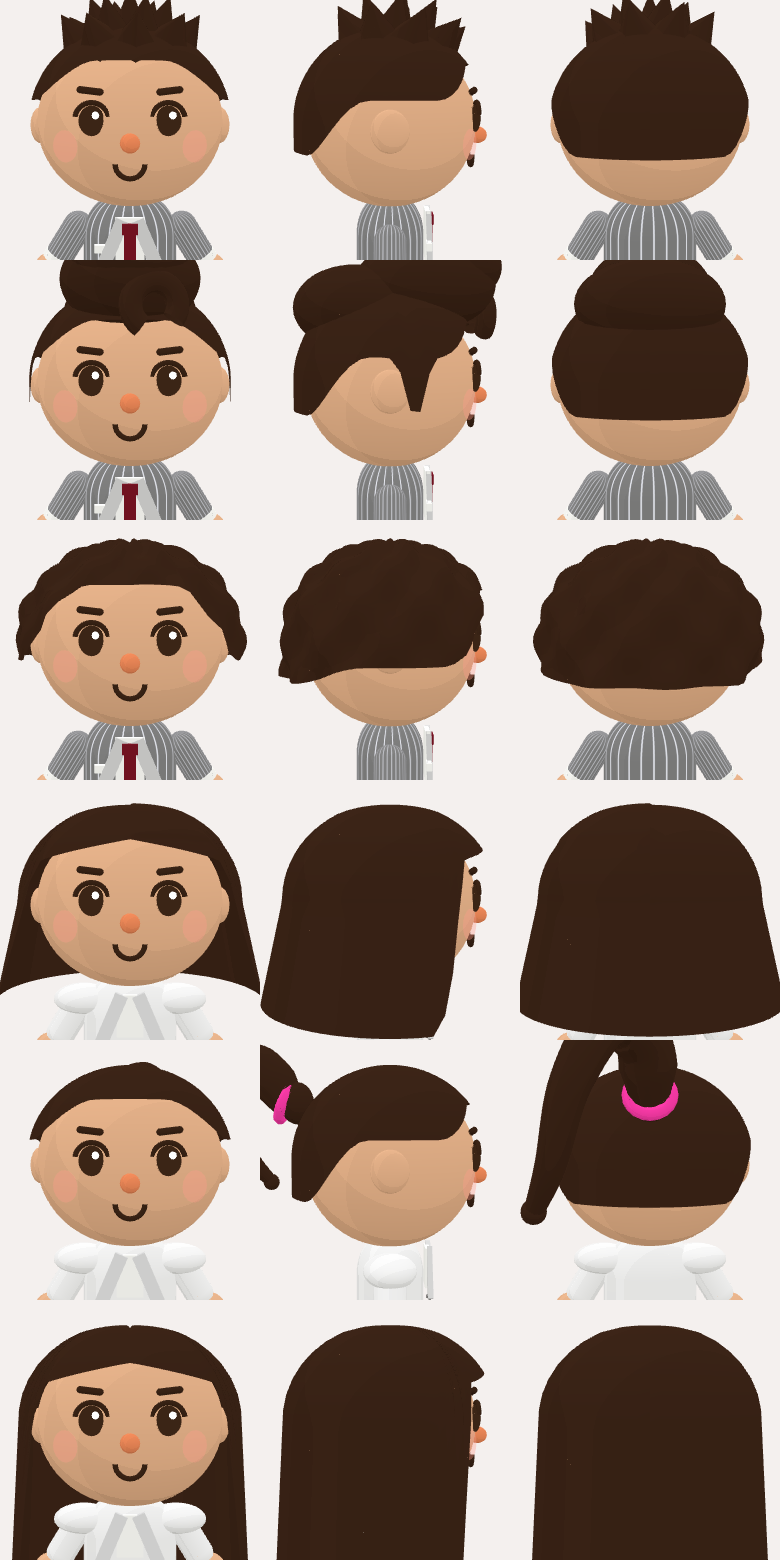
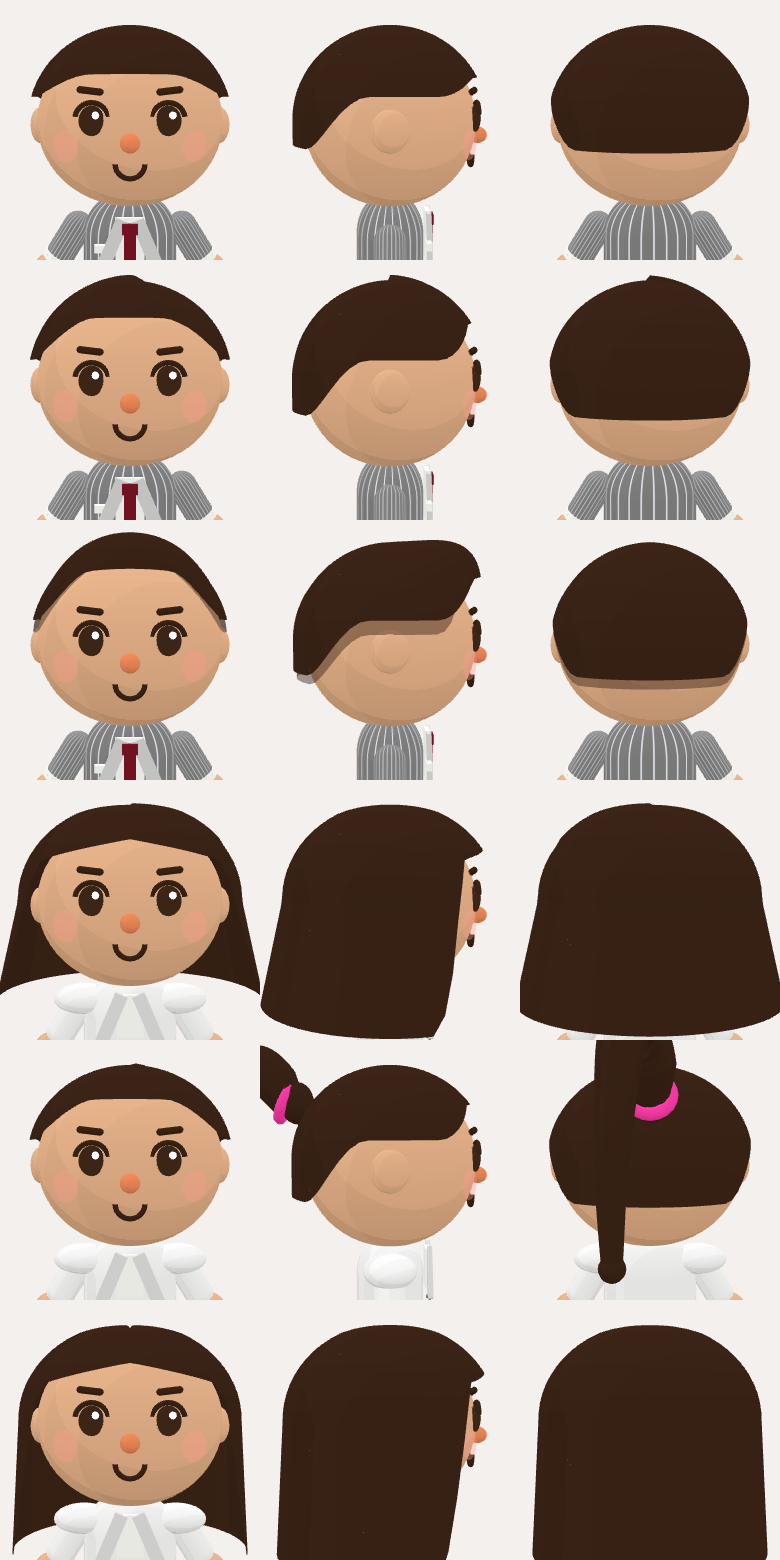
남자 헤어 3종 교체(크롭/가르마/쉐이브), 포니테일 아래로, 긴머리 길이 조정, <기본> 흰티·청바지 의상, 에어로빅 팬티=상의색, 여자 디스코 하의색, 여자 한복 소매=저고리색, 웨이터 이름 변경

diff --git a/public/world.js b/public/world.js
@@ -204,7 +204,7 @@ const SEQUIN_BLUE=patTex((x,s)=>{const cs=['#9fc4ff','#ffffff','#6f8fd8','#c9dcf
 const SAEKDONG=patTex((x,s)=>{const cs=['#e8443a','#f7a531','#f5e04a','#5cc45a','#3b8fe0','#8a4fd0','#f07ab8','#ffffff'];const h=s/cs.length;cs.forEach((c,i)=>{x.fillStyle=c;x.fillRect(0,i*h,s,h);});},1,1);
 const SKIN_DEF='#f2c29a';
 // 의상별 기본 색 (레퍼런스 그림 기준)
-window.OUTFIT_DEFAULTS={m:{suit:'#2b3352',disco:'#2fb8b0',hanbok:'#2f8f45',aerobic:'#ff2fa6'},f:{suit:'#9a9cc0',disco:'#2a3f9e',hanbok:'#e2525c',aerobic:'#ff2fa6'}};
+window.OUTFIT_DEFAULTS={m:{basic:'#f5f5f5',suit:'#2b3352',disco:'#2fb8b0',hanbok:'#2f8f45',aerobic:'#ff2fa6'},f:{basic:'#f5f5f5',suit:'#9a9cc0',disco:'#2a3f9e',hanbok:'#e2525c',aerobic:'#ff2fa6'}};
 const RAINBOW=patTex((x,s)=>{const cs=['#ff3fa4','#ffe23a','#7ee83a','#2fa8ff','#ff8a1e'];const w=s/10;for(let i=0;i<10;i++){x.fillStyle=cs[i%5];x.fillRect(i*w,0,w,s);}},3,1);
 function aeroAccent(col){const c=new THREE.Color(col),h={};c.getHSL(h);return '#'+new THREE.Color().setHSL((h.h+.33)%1,.9,.58).getHexString();}
 function chibiMats(o){const T=(c,ex={})=>new THREE.MeshToonMaterial({color:c,gradientMap:TOON_GRAD,...ex});
@@ -216,7 +216,7 @@ function chibiMats(o){const T=(c,ex={})=>new THREE.MeshToonMaterial({color:c,gra
   hair:T(o.dj?'#2a1a10':'#3b2417')};}
 const G={sph:(r,ws=28,hs=20)=>new THREE.SphereGeometry(r,ws,hs),cap:(r,l)=>new THREE.CapsuleGeometry(r,l,8,18),cyl:(a,b,h,s=28)=>new THREE.CylinderGeometry(a,b,h,s,1),box:(x,y,z)=>new THREE.BoxGeometry(x,y,z)};
 function mesh(g,m,p=[0,0,0],s=null,r=null){const o=new THREE.Mesh(g,m);o.position.set(...p);if(s)o.scale.set(...s);if(r)o.rotation.set(...r);return o;}
-function makeChibi(opts){const M=chibiMats(opts),f=opts.gender==='f',st=['suit','disco','hanbok','aerobic'].includes(opts.style)?opts.style:'suit';
+function makeChibi(opts){const M=chibiMats(opts),f=opts.gender==='f',st=['basic','suit','disco','hanbok','aerobic'].includes(opts.style)?opts.style:'suit';
  const LK=(window.LOOKS?LOOKS.resolve(opts):{top:opts.outfit,bottom:opts.outfit,acc:'none',hair:''});const npc=opts.dj||opts.waiter||!opts.top; // NPC 는 예전 한 가지 색 그대로
  const col=npc?(opts.outfit||OUTFIT_DEFAULTS[f?'f':'m'][st]):LK.top,bcol=npc?col:LK.bottom;opts={...opts,top:col,bottom:bcol,acc:npc?'none':LK.acc,hair:npc?'':LK.hair};
  const root=new THREE.Group(),hips=new THREE.Group();hips.position.y=.42;root.add(hips);
@@ -228,9 +228,9 @@ function makeChibi(opts){const M=chibiMats(opts),f=opts.gender==='f',st=['suit',
  if(!f&&st==='hanbok'){top=M.T(col);sleeve=top;pants=M.T(bcol);shoe=M.black;}
  if(f&&st==='suit'){top=M.T(col);sleeve=top;pants=M.skin;shoe=M.T('#1f2a4d');}
  if(f&&st==='disco'){top=M.T(col);sleeve=top;pants=M.T(bcol);shoe=M.silver;cuff=M.T('#8a5bd6');}
- if(f&&st==='hanbok'){top=M.T(npc?'#b9e08a':col);sleeve=M.T('#fff',{map:SAEKDONG});pants=M.skin;shoe=M.T('#fff');}
+ if(f&&st==='hanbok'){top=M.T(npc?'#b9e08a':col);sleeve=npc?M.T('#fff',{map:SAEKDONG}):top;cuff=npc?null:M.T('#fff',{map:SAEKDONG});pants=M.skin;shoe=M.T('#fff');} /* 소매 = 저고리 색, 끝동에 색동 */
  if(st==='aerobic'){top=M.T(col,{map:RAINBOW});sleeve=M.skin;pants=new THREE.MeshStandardMaterial({color:bcol,metalness:.2,roughness:.28,emissive:new THREE.Color(bcol).multiplyScalar(.25)});shoe=f?M.T('#fbfbf7'):M.skin;cuff=M.T(aeroAccent(bcol));}
- if(opts.tee){top=M.T('#f5f5f5');sleeve=M.skin;pants=M.T('#2f5fa8');shoe=M.T('#fbfbf7');cuff=null;} /* 알바: 흰 티 + 청바지 */
+ if(st==='basic')opts.tee=true;if(opts.tee){top=M.T(col);sleeve=M.skin;pants=M.T(bcol);shoe=M.T('#fbfbf7');cuff=null;} /* 알바: 흰 티 + 청바지 */
  // 몸통 (짧고 둥근 원통)
  torso.add(mesh(G.cap(.17,.22),top,[0,.27,0],[1.12,1,.8]));
  torso.add(mesh(G.cyl(.07,.08,.08),M.skin,[0,.53,0]));
@@ -257,7 +257,7 @@ function makeChibi(opts){const M=chibiMats(opts),f=opts.gender==='f',st=['suit',
   arm.add(mesh(G.sph(.07),M.skin,[0,-.24,0]));return a;});
  // 다리
  const legs=[-1,1].map(s=>{const l=new THREE.Group();l.position.set(s*.085,0,0);hips.add(l);
-  if(!f&&st==='disco'||f&&st==='disco'){l.add(mesh(G.cyl(.07,.115,.34),f?M.shinyOf(SEQUIN_BLUE,'#c9d6ff'):pants,[0,-.17,0]));if(f)l.add(mesh(G.cyl(.07,.08,.14),pants,[0,-.06,0]));}
+  if(!f&&st==='disco'||f&&st==='disco'){l.add(mesh(G.cyl(.07,.115,.34),f?M.shinyOf(SPARKLE,bcol):pants,[0,-.17,0]));if(f)l.add(mesh(G.cyl(.07,.08,.14),pants,[0,-.06,0]));}
   else if(!f&&st==='hanbok'){l.add(mesh(G.sph(.12),pants,[0,-.15,0],[1,1.45,1]));l.add(mesh(G.cyl(.055,.055,.08),M.white,[0,-.33,0]));}
   else l.add(mesh(G.cap(.065,.18),pants,[0,-.17,0]));
   if(st==='aerobic'&&cuff)l.add(mesh(G.cyl(.075,.075,.09),cuff,[0,-.2,0]));
@@ -316,32 +316,26 @@ const sstep=(a,b,x)=>{const t=Math.min(1,Math.max(0,(x-a)/(b-a)));return t*t*(3-
 const line3=(fr,sd,bk)=>f=>{const P=Math.PI;return f<P*.45?fr+(sd-fr)*sstep(P*.12,P*.36,f):sd+(bk-sd)*sstep(P*.56,P*.78,f);}; /* 옆은 귀 위로 수평, 뒤는 목덜미까지 */
 const partGroove=(ph,th)=>{const a=Math.atan2(Math.sin(ph),Math.cos(ph));return th<Math.PI*.4?-.035*Math.exp(-((a/.07)**2))*(1-th/(Math.PI*.4)):0;}; // 가운데 가르마
 function hairPick(head,M,H0,k){const H=H0.clone();H.side=THREE.DoubleSide;H.roughness=.55;H.metalness=.05;const P=Math.PI;const add=(g,p,sc,r)=>head.add(mesh(g,H,p||[0,0,0],sc,r));
- if(k==='m1'){ // 스포츠: 짧게 붙은 옆뒤 + 위로 뾰족한 결
-  add(hairShell(line3(P*.3,P*.43,P*.6),{bump:(ph,th)=>.03*Math.max(0,1-th/1.1)}));
-  const sp=[];for(let r=0;r<3;r++){const n=[1,6,9][r],rad=[0,.11,.2][r];for(let i=0;i<n;i++){const a=i/n*P*2+r*.4;sp.push([Math.sin(a)*rad,Math.cos(a)*rad*.95+.03,r]);}}
-  sp.forEach(([x,z,r])=>{const tilt=[0,.35,.6][r],a=Math.atan2(x,z);const y=HC.cy+HC.ry*Math.cos(Math.asin(Math.min(.95,Math.hypot(x/HC.rx,z/HC.rz))))-.02;
-   add(new THREE.ConeGeometry(.085,.2-.03*r,5),[x,y+.06,z],null,[Math.cos(a)*tilt+(z>0?.25:0),0,-Math.sin(a)*tilt]);});return;}
- if(k==='m2'){ // 엘비스: 볼륨 퀴프 + 구레나룻이 옆머리와 한 덩어리
-  const sb=f=>P*.18*Math.exp(-(((f-P*.43)/(P*.035))**2));
-  add(hairShell(f=>line3(P*.3,P*.42,P*.6)(f)+sb(f),{bump:(ph,th,f)=>.05*Math.max(0,1-th/1.2)+(f<P*.3&&th<P*.3?.08*(1-f/(P*.3))*(1-th/(P*.3)):0)}));
-  add(G.sph(.2,32,24),[0,.6,.12],[1.15,.8,1.25]);add(G.sph(.15,28,20),[0,.66,.24],[1.2,.8,1]);add(G.sph(.2,28,20),[0,.52,-.12],[1.25,.75,1.1]); // 위로 쓸어올린 볼륨
-  add(new THREE.TorusGeometry(.07,.035,12,24,P*1.5),[.07,.5,.33],null,[0,.2,-.6]); // 이마로 떨어지는 앞머리 한 가닥(컬)
-  return;}
- if(k==='m3'){ // 펌: 가운데 가르마 + 귀 덮는 중간 길이 웨이브
-  add(hairShell(line3(P*.33,P*.56,P*.62),{rx:.37,rz:.355,bump:(ph,th,f)=>.06+.05*Math.sin(ph*11)*Math.sin(th*9)*Math.min(1,th*3)+partGroove(ph,th)}));
-  return;}
+ const sidePart=(ph,th)=>{const a=Math.atan2(Math.sin(ph),Math.cos(ph));return th<Math.PI*.38?-.05*Math.exp(-(((a-.5)/.08)**2))*(1-th/(Math.PI*.38)):0;}; // 옆 가르마
+ if(k==='m1'){ // 크롭: 짧고 단정한 군인/크롭 컷, 옆은 짧게 정리
+  add(hairShell(line3(P*.35,P*.42,P*.58),{bump:(ph,th)=>.01+.012*Math.max(0,1-th/(P*.35))}));return;}
+ if(k==='m2'){ // 가르마: 옆 가르마 댄디, 위쪽 부드러운 볼륨
+  add(hairShell(line3(P*.3,P*.43,P*.6),{bump:(ph,th)=>{const a=Math.atan2(Math.sin(ph),Math.cos(ph));const top=.06*Math.max(0,1-th/(P*.42));const sweep=a<.5&&a>-1.6&&th<P*.34?.06*Math.sin(Math.min(1,(.5-a)/.3)*P/2)*(1-th/(P*.34)):0;return .015+top+sweep+sidePart(ph,th);}}));return;}
+ if(k==='m3'){ // 쉐이브: 옆은 짧게 밀고(페이드) 앞머리를 위로 쓸어올린 볼륨
+  add(hairShell(line3(P*.3,P*.43,P*.6),{rx:.348,bump:(ph,th,f)=>{const fr=Math.max(0,Math.cos(f));return .005+.24*fr*fr*Math.exp(-(((th-P*.22)/(P*.12))**2))+.05*Math.max(0,1-th/(P*.3));}}));
+  const F=H.clone();F.transparent=true;F.opacity=.45;head.add(mesh(hairShell(line3(P*.2,P*.47,P*.63),{rx:.343,rz:.33,ry:.32}),F));return;}
  if(k==='f1'){ // 단발: 턱선 길이, 앞 얼굴만 열린 닫힌 형태
   add(hairShell(f=>f<P*.27?P*.31+P*.06*f/(P*.27):f<P*.42?P*.37+(P*.86-P*.37)*sstep(P*.27,P*.42,f):P*.86,{rx:.375,rz:.36,flare:.18,drop:.95,bump:(ph,th)=>.05*Math.min(1,th*2)+(Math.atan2(Math.sin(ph),Math.cos(ph))>0&&th<P*.3?.015:0)}));
   return;}
  if(k==='f2'){ // 포니테일: 뒤로 당겨 묶음, 얼굴 깨끗
   add(hairShell(line3(P*.3,P*.43,P*.62),{bump:(ph,th)=>.02}));
   add(G.sph(.075,16,12),[0,.47,-.33],[1,1,.8]);head.add(mesh(new THREE.TorusGeometry(.06,.02,8,20),M.T('#ff3cac'),[0,.47,-.37],null,[.4,0,0]));
-  const c=new THREE.CatmullRomCurve3([[0,.47,-.36],[.02,.6,-.46],[.1,.62,-.56],[.18,.48,-.62],[.24,.28,-.58],[.3,.16,-.5]].map(q=>new THREE.Vector3(...q)));
+  const c=new THREE.CatmullRomCurve3([[0,.47,-.36],[.02,.6,-.46],[.06,.6,-.56],[.08,.44,-.61],[.09,.24,-.62],[.09,.04,-.61]].map(q=>new THREE.Vector3(...q)));
   const tg=new THREE.TubeGeometry(c,40,1,14,false),pa=tg.attributes.position,v=new THREE.Vector3();for(let i=0;i<=40;i++){const t=i/40,q=c.getPoint(t),r=.08*(t<.1?.75+t*2.5:1-(t-.1)*.75);for(let j=0;j<=14;j++){const n=i*15+j;v.fromBufferAttribute(pa,n).sub(q).multiplyScalar(r).add(q);pa.setXYZ(n,v.x,v.y,v.z);}}
-  tg.computeVertexNormals();add(tg);add(G.sph(.034,12,10),[.3,.16,-.5]);
+  tg.computeVertexNormals();add(tg);add(G.sph(.034,12,10),[.09,.04,-.61]);
   return;}
  if(k==='f3'){ // 긴머리: 가운데 가르마, 어깨 아래까지 곧게
-  add(hairShell(f=>f<P*.25?P*.32+P*.06*f/(P*.25):f<P*.4?P*.38+(P*1.55-P*.38)*sstep(P*.25,P*.4,f):P*1.55,{rx:.375,rz:.36,flare:.05,drop:1,bump:(ph,th)=>.045*Math.min(1,th*2)+partGroove(ph,th)}));
+  add(hairShell(f=>f<P*.25?P*.32+P*.06*f/(P*.25):f<P*.4?P*.38+(P*.95-P*.38)*sstep(P*.25,P*.4,f):P*.95,{rx:.375,rz:.36,flare:.05,drop:1,bump:(ph,th)=>.045*Math.min(1,th*2)+partGroove(ph,th)}));
   return;}
 }
 // 액세서리: 안경 / 선글라스
@@ -352,9 +346,9 @@ function accessory(head,a){if(!a||a==='none')return;const g=new THREE.Group();g.
   g.add(mesh(G.box(.012,.012,.22),frame,[s*.19,.01,-.11]));});
  g.add(mesh(G.box(.09,.012,.012),frame,[0,.02,0]));}
 function outfit(torso,hips,M,o){const f=o.gender==='f',st=o.style,col=o.col;
- if(o.tee)hips.add(mesh(G.sph(.17),M.T('#2f5fa8'),[0,.03,0],[1.1,.6,.8])); /* 청바지 허리 */
- if(st==='aerobic'&&!o.tee){torso.add(mesh(G.cyl(.19,.19,.05,28),T2(M,'#22b6f0'),[0,.12,0],[1.12,1,.82]));hips.add(mesh(G.sph(.17),M.T('#fff',{map:RAINBOW}),[0,.03,0],[1.1,.55,.8]));
-  [-1,1].forEach(s=>torso.add(mesh(G.box(.05,.1,.03),M.T('#fff',{map:RAINBOW}),[s*.1,.47,.02])));}
+ if(o.tee)hips.add(mesh(G.sph(.17),M.T(o.bcol||'#2f7bff'),[0,.03,0],[1.1,.6,.8])); /* 청바지 허리 */
+ if(st==='aerobic'&&!o.tee){torso.add(mesh(G.cyl(.19,.19,.05,28),T2(M,'#22b6f0'),[0,.12,0],[1.12,1,.82]));hips.add(mesh(G.sph(.17),M.T(col,{map:RAINBOW}),[0,.03,0],[1.1,.55,.8])); /* 레오타드 팬티 부분 = 상의 색 */
+  [-1,1].forEach(s=>torso.add(mesh(G.box(.05,.1,.03),M.T(col,{map:RAINBOW}),[s*.1,.47,.02])));}
  if(!f&&st==='suit'){torso.add(mesh(G.box(.11,.2,.02),M.white,[0,.38,.15]));torso.add(mesh(G.box(.045,.2,.02),T2(M,'#7a1424'),[0,.34,.162]));torso.add(mesh(G.box(.06,.04,.025),T2(M,'#7a1424'),[0,.44,.163]));
   const lap=T2(M,new THREE.Color(col).multiplyScalar(.7));[-1,1].forEach(s=>torso.add(mesh(G.box(.05,.22,.02),lap,[s*.07,.37,.155],null,[0,0,s*.4])));
   torso.add(mesh(G.box(.05,.03,.02),M.white,[-.11,.36,.15]));[.2,.27].forEach(y=>[-1,1].forEach(s=>torso.add(mesh(G.sph(.012),M.black,[s*.04,y,.165]))));}
@@ -590,8 +584,8 @@ if(document.fonts)document.fonts.load('64px "Nanum Pen Script"').then(()=>docume
 
 // ---------- NPC 웨이터 (서버 시간 기준 순찰 → 모든 사용자에게 비슷한 위치) ----------
 window.WAITERS=[];
-(async function waiters(){const defs=[{name:'웨이터 김 · 부킹왕',skin:'#f2c29a',route:[[-4.6,1.4],[-4.6,5.8],[2.2,5.9],[2.2,1.4]],sp:.55,ph:0},
- {name:'웨이터 최 · 나이트 황제',skin:'#f5cfa8',route:[[-10,-5.5],[-10,10.5],[-4.8,10.5],[-4.8,-5.5]],sp:.5,ph:4}];
+(async function waiters(){const defs=[{name:'웨이터 부킹왕',skin:'#f2c29a',route:[[-4.6,1.4],[-4.6,5.8],[2.2,5.9],[2.2,1.4]],sp:.55,ph:0},
+ {name:'웨이터 돼지엄마',skin:'#f5cfa8',route:[[-10,-5.5],[-10,10.5],[-4.8,10.5],[-4.8,-5.5]],sp:.5,ph:4}];
  for(const d of defs){const holder=E('a-entity',{});const h=await makeHuman(holder,{outfit:'#151515',skin:d.skin,gender:'m',style:'suit',waiter:true});HUMANS.add(h);
   E('a-entity',{position:'0 1.85 0',billboard:'',ktext:`value:${d.name};color:#fff;glow:#ff3cac;size:36;width:1.4`},holder);
   const segs=[];let L=0;for(let i=0;i<d.route.length;i++){const a=d.route[i],b=d.route[(i+1)%d.route.length],l=Math.hypot(b[0]-a[0],b[1]-a[1]);segs.push({a,b,l,s:L});L+=l;}
@@ -790,7 +784,7 @@ shopGuy(20.5,'통닭 아저씨','#ececec','#f2f2ea','#ffffff','chicken');shopGuy
  E('a-box',{position:`${dr-.05} ${D.h/2-.05} 12.5`,rotation:'0 90 0',width:.95,height:D.h-.15,depth:.05,material:'color:#5a1010;roughness:.6'});
  E('a-entity',{position:`${D.x} ${D.h+.5} 11.9`,rotation:'0 180 0',ktext:'value:EXIT · 🎬 극장 →;color:#d6ffe0;glow:#00ff66;size:70;width:1.9'});})();
 // ---------- 야장 알바: 주문 들어오면 냉장고/주방에서 집어 테이블로 ----------
-(async function alba(){const holder=E('a-entity',{position:'0.2 0 18.4'});const h=await makeHuman(holder,{...LOOKS.resolve({gender:'f',style:'aerobic',top:'#f5f5f5',bottom:'#2f5fa8',hair:'f2'}),gender:'f',style:'aerobic',tee:true,skin:'#f6d2b0'});HUMANS.add(h);
+(async function alba(){const holder=E('a-entity',{position:'0.2 0 18.4'});const h=await makeHuman(holder,{...LOOKS.resolve({gender:'f',style:'basic',top:'#f5f5f5',bottom:'#2f7bff',hair:'f2'}),gender:'f',style:'basic',skin:'#f6d2b0'});HUMANS.add(h);
  E('a-entity',{position:'0 1.85 0',billboard:'',ktext:'value:알바;color:#fff;glow:#ff8a00;size:30;width:.5'},holder);
  const A=window.ALBA={x:.2,z:18.4,job:null,holder,h};holder.object3D.rotation.y=-Math.PI/2;
  const lerp=(a,b,k)=>[a[0]+(b[0]-a[0])*k,a[1]+(b[1]-a[1])*k];

diff --git a/tests/hair.shot.js b/tests/hair.shot.js
@@ -14,4 +14,24 @@ const p=require('puppeteer-core');const W=ms=>new Promise(r=>setTimeout(r,ms));c
   const sc=new THREE.Scene();sc.add(new THREE.HemisphereLight('#fff','#887',1.3));const dl=new THREE.DirectionalLight('#fff',1.5);dl.position.set(1,2,3);sc.add(dl);
   const ch=makeChibi({...LOOKS.resolve({gender:'f',style:'aerobic',top:'#f5f5f5',bottom:'#2f5fa8',hair:'f2'}),gender:'f',style:'aerobic',tee:true,skin:'#f6d2b0'});sc.add(ch.root);
   const cm=new THREE.PerspectiveCamera(30,.8,.1,20);cm.position.set(0,.8,3.6);cm.lookAt(0,.7,0);r.render(sc,cm);return cv.toDataURL();}));
+ fs.writeFileSync(D+'aerobic.png',await shot(()=>{const cv=document.createElement('canvas');cv.width=1000;cv.height=420;const r=new THREE.WebGLRenderer({canvas:cv,antialias:true});r.setScissorTest(true);r.setClearColor('#f4f0ee');
+  const sc=new THREE.Scene();sc.add(new THREE.HemisphereLight('#fff','#887',1.3));const dl=new THREE.DirectionalLight('#fff',1.5);dl.position.set(1,2,3);sc.add(dl);
+  [['m','#e0262e'],['m','#2f7bff'],['f','#2f9e44'],['f','#ffd400']].forEach(([g,c],i)=>{const ch=makeChibi({...LOOKS.resolve({gender:g,style:'aerobic',top:c,bottom:'#1a1a1a'}),gender:g,style:'aerobic',skin:'#e8b48c'});sc.add(ch.root);
+   const cm=new THREE.PerspectiveCamera(30,250/420,.1,20);cm.position.set(0,.8,3.6);cm.lookAt(0,.7,0);r.setViewport(i*250,0,250,420);r.setScissor(i*250,0,250,420);r.render(sc,cm);sc.remove(ch.root);});return cv.toDataURL();}));
+ fs.writeFileSync(D+'female_body.png',await shot(()=>{const cv=document.createElement('canvas');cv.width=1350;cv.height=420;const r=new THREE.WebGLRenderer({canvas:cv,antialias:true});r.setScissorTest(true);r.setClearColor('#f4f0ee');
+  const sc=new THREE.Scene();sc.add(new THREE.HemisphereLight('#fff','#887',1.3));const dl=new THREE.DirectionalLight('#fff',1.5);dl.position.set(1,2,3);sc.add(dl);let i=0;
+  ['f1','f2','f3'].forEach(h=>[0,Math.PI/2,Math.PI].forEach(ry=>{const ch=makeChibi({gender:'f',style:'suit',top:'#f5f5f5',bottom:'#1a1a1a',hair:h,acc:'none',skin:'#e8b48c'});ch.root.rotation.y=ry;sc.add(ch.root);
+   const cm=new THREE.PerspectiveCamera(30,150/420,.1,20);cm.position.set(0,.8,3.6);cm.lookAt(0,.7,0);r.setViewport(i*150,0,150,420);r.setScissor(i*150,0,150,420);r.render(sc,cm);sc.remove(ch.root);i++;}));return cv.toDataURL();}));
+ fs.writeFileSync(D+'disco_bottom.png',await shot(()=>{const cv=document.createElement('canvas');cv.width=1000;cv.height=420;const r=new THREE.WebGLRenderer({canvas:cv,antialias:true});r.setScissorTest(true);r.setClearColor('#f4f0ee');
+  const sc=new THREE.Scene();sc.add(new THREE.HemisphereLight('#fff','#887',1.3));const dl=new THREE.DirectionalLight('#fff',1.5);dl.position.set(1,2,3);sc.add(dl);
+  [['f','#e0262e'],['f','#2f9e44'],['m','#ff69b4'],['m','#ffd400']].forEach(([g,b],i)=>{const ch=makeChibi({...LOOKS.resolve({gender:g,style:'disco',top:'#2f7bff',bottom:b}),gender:g,style:'disco',skin:'#e8b48c'});sc.add(ch.root);
+   const cm=new THREE.PerspectiveCamera(30,250/420,.1,20);cm.position.set(0,.8,3.6);cm.lookAt(0,.7,0);r.setViewport(i*250,0,250,420);r.setScissor(i*250,0,250,420);r.render(sc,cm);sc.remove(ch.root);});return cv.toDataURL();}));
+ fs.writeFileSync(D+'basic_outfit.png',await shot(()=>{const cv=document.createElement('canvas');cv.width=1000;cv.height=420;const r=new THREE.WebGLRenderer({canvas:cv,antialias:true});r.setScissorTest(true);r.setClearColor('#f4f0ee');
+  const sc=new THREE.Scene();sc.add(new THREE.HemisphereLight('#fff','#887',1.3));const dl=new THREE.DirectionalLight('#fff',1.5);dl.position.set(1,2,3);sc.add(dl);
+  [['m',{}],['f',{}],['m',{top:'#e0262e',bottom:'#1a1a1a'}],['f',{top:'#ffd400',bottom:'#7b2cbf'}]].forEach(([g,c],i)=>{const ch=makeChibi({...LOOKS.resolve({gender:g,style:'basic',hair:g+'1',...c}),gender:g,style:'basic',skin:'#e8b48c'});sc.add(ch.root);
+   const cm=new THREE.PerspectiveCamera(30,250/420,.1,20);cm.position.set(0,.8,3.6);cm.lookAt(0,.7,0);r.setViewport(i*250,0,250,420);r.setScissor(i*250,0,250,420);r.render(sc,cm);sc.remove(ch.root);});return cv.toDataURL();}));
+ fs.writeFileSync(D+'hanbok_f.png',await shot(()=>{const cv=document.createElement('canvas');cv.width=1000;cv.height=420;const r=new THREE.WebGLRenderer({canvas:cv,antialias:true});r.setScissorTest(true);r.setClearColor('#f4f0ee');
+  const sc=new THREE.Scene();sc.add(new THREE.HemisphereLight('#fff','#887',1.3));const dl=new THREE.DirectionalLight('#fff',1.5);dl.position.set(1,2,3);sc.add(dl);
+  [['f',{top:'#ffd400',bottom:'#e0262e'}],['f',{top:'#2f7bff',bottom:'#ff69b4'}],['f',{top:'#2f9e44',bottom:'#24306e'}],['m',{top:'#7b2cbf',bottom:'#1a1a1a'}]].forEach(([g,c],i)=>{const ch=makeChibi({...LOOKS.resolve({gender:g,style:'hanbok',hair:g+'1',...c}),gender:g,style:'hanbok',skin:'#e8b48c'});sc.add(ch.root);
+   const cm=new THREE.PerspectiveCamera(30,250/420,.1,20);cm.position.set(0,.8,3.6);cm.lookAt(0,.7,0);r.setViewport(i*250,0,250,420);r.setScissor(i*250,0,250,420);r.render(sc,cm);sc.remove(ch.root);});return cv.toDataURL();}));
  console.log('hair shot done');await b.close();process.exit(0);})().catch(e=>{console.error(e);process.exit(1);});

diff --git a/public/app.js b/public/app.js
@@ -2,13 +2,13 @@ const CID=localStorage.getItem('cid')||(()=>{const v=(crypto.randomUUID?crypto.r
 // ===== ERRDAY 나이트클럽: 아바타 · 이동 · 채팅 · 음악 =====
 const socket=io({transports:['websocket','polling']});const $=id=>document.getElementById(id);
 const COLORS=['#2b3352','#9a9cc0','#2a3f9e','#2fb8b0','#2f8f45','#e2525c','#c8102e','#ffd400','#ff69b4','#7b2cbf','#ff8c00','#f5f5f5','#ff2fa6','#9cf03a','#4fc3ff','#b04cff'];
-const JOINT={suit:'#1a1a1a',disco:'#ffd700',hanbok:'#ffffff',aerobic:'#ff2fa6'};
+const JOINT={basic:'#2f7bff',suit:'#1a1a1a',disco:'#ffd700',hanbok:'#ffffff',aerobic:'#ff2fa6'};
 let me={nick:'',gender:'m',style:'suit',outfit:'#2b3352',skin:'#f2c29a'},myId=null,joined=false,mySeat=null,adminToken=sessionStorage.getItem('adminToken');
-try{Object.assign(me,JSON.parse(localStorage.getItem('profile')||'{}'));}catch(e){}delete me.hat;if(!['suit','disco','hanbok','aerobic'].includes(me.style))me.style='suit';
+try{Object.assign(me,JSON.parse(localStorage.getItem('profile')||'{}'));}catch(e){}delete me.hat;if(!['basic','suit','disco','hanbok','aerobic'].includes(me.style))me.style='suit';
 const others={};const scene=document.querySelector('a-scene');
-const humanOpts=p=>({...LOOKS.resolve(p),outfit:p.outfit||null,skin:p.skin||'#f2c29a',gender:p.gender==='f'?'f':'m',style:['suit','disco','hanbok','aerobic'].includes(p.style)?p.style:'suit'});
+const humanOpts=p=>({...LOOKS.resolve(p),outfit:p.outfit||null,skin:p.skin||'#f2c29a',gender:p.gender==='f'?'f':'m',style:['basic','suit','disco','hanbok','aerobic'].includes(p.style)?p.style:'suit'});
 const SKINS=['#f2c29a','#ffdcc0','#d9a074','#a8724a'];
-const STYLE_NAMES={m:{suit:'정장',disco:'디스코',hanbok:'한복',aerobic:'에어로빅'},f:{suit:'정장',disco:'디스코',hanbok:'한복',aerobic:'에어로빅'}};
+const STYLE_NAMES={m:{basic:'&lt;기본&gt;',suit:'정장',disco:'디스코',hanbok:'한복',aerobic:'에어로빅'},f:{basic:'&lt;기본&gt;',suit:'정장',disco:'디스코',hanbok:'한복',aerobic:'에어로빅'}};
 // 모바일 성능: 픽셀 비율 낮추기
 scene.addEventListener('loaded',()=>{if(IS_MOBILE&&scene.renderer)scene.renderer.setPixelRatio(Math.min(1.25,devicePixelRatio));});
 // ---------- 입장 화면 ----------

diff --git a/public/looks.js b/public/looks.js
@@ -1,11 +1,11 @@
 // 캐릭터 꾸미기 옵션 (브라우저 + 서버 + 테스트 공용)
 (function(root){
  const PALETTE=[['#1a1a1a','검정'],['#f5f5f5','흰색'],['#e0262e','빨강'],['#ff8c00','주황'],['#ffd400','노랑'],['#2f9e44','초록'],['#2f7bff','파랑'],['#24306e','남색'],['#7b2cbf','보라'],['#ff69b4','분홍']];
- const STYLES=['suit','disco','hanbok','aerobic'],ACC=['none','glasses','sunglasses'],ACC_NAME={none:'없음',glasses:'안경',sunglasses:'선글라스'};
- const HAIR={m:[['','기본'],['m1','스포츠'],['m2','엘비스'],['m3','장발 파마']],f:[['','기본'],['f1','단발'],['f2','포니테일'],['f3','긴 생머리']]};
+ const STYLES=['basic','suit','disco','hanbok','aerobic'],ACC=['none','glasses','sunglasses'],ACC_NAME={none:'없음',glasses:'안경',sunglasses:'선글라스'};
+ const HAIR={m:[['','기본'],['m1','크롭'],['m2','가르마'],['m3','쉐이브']],f:[['','기본'],['f1','단발'],['f2','포니테일'],['f3','긴머리']]};
  // 성별/의상별 기본 상의·하의 색
- const DEF={m:{suit:['#24306e','#24306e'],disco:['#f5f5f5','#2f7bff'],hanbok:['#2f9e44','#1a1a1a'],aerobic:['#f5f5f5','#ff69b4']},
-            f:{suit:['#7b2cbf','#7b2cbf'],disco:['#2f7bff','#2f7bff'],hanbok:['#ffd400','#e0262e'],aerobic:['#f5f5f5','#ff69b4']}};
+ const DEF={m:{basic:['#f5f5f5','#2f7bff'],suit:['#24306e','#24306e'],disco:['#f5f5f5','#2f7bff'],hanbok:['#2f9e44','#1a1a1a'],aerobic:['#f5f5f5','#ff69b4']},
+            f:{basic:['#f5f5f5','#2f7bff'],suit:['#7b2cbf','#7b2cbf'],disco:['#2f7bff','#2f7bff'],hanbok:['#ffd400','#e0262e'],aerobic:['#f5f5f5','#ff69b4']}};
  const HEX=/^#[0-9a-fA-F]{6}$/;
  // 예전 저장값(outfit 한 가지 색)도 그대로: 옛날 색은 상의로 (여자 한복은 치마가 주색이라 하의로)
  function resolve(o){o=o||{};const g=o.gender==='f'?'f':'m',st=STYLES.includes(o.style)?o.style:'suit',d=DEF[g][st];

diff --git a/server.js b/server.js
@@ -55,7 +55,7 @@ const STATE=process.env.STATE_FILE||path.join(__dirname,'data','state.json');
 const durations={}; // videoId 또는 mp3 id -> 초 (클라이언트가 알려줌)
 const durOf=t=>t&&(t.dur||durations[t.type==='yt'?t.videoId:t.id]);
 const {clean:cleanText,isBad}=require('./filter');
-const STYLES=['suit','disco','hanbok','aerobic'],HEX=/^#[0-9a-fA-F]{6}$/;const LOOKS=require('./public/looks.js');const look=p=>{const r=LOOKS.resolve(p);return{gender:r.gender,style:r.style,outfit:HEX.test(p.outfit)?p.outfit:'',top:r.top,bottom:r.bottom,acc:r.acc,hair:r.hair,skin:HEX.test(p.skin)?p.skin:''};};
+const STYLES=['basic','suit','disco','hanbok','aerobic'],HEX=/^#[0-9a-fA-F]{6}$/;const LOOKS=require('./public/looks.js');const look=p=>{const r=LOOKS.resolve(p);return{gender:r.gender,style:r.style,outfit:HEX.test(p.outfit)?p.outfit:'',top:r.top,bottom:r.bottom,acc:r.acc,hair:r.hair,skin:HEX.test(p.skin)?p.skin:''};};
 const players={}; // id -> {nick,gender,outfit,skin,style,pos,rot,seat}
 const music={playlist:[],index:-1,playing:false,startedAt:0,pausedAt:0,shuffle:false};
 let played=new Set(); // 랜덤 재생: 이미 튼 곡 id

diff --git a/tests/looks.test.js b/tests/looks.test.js
@@ -9,6 +9,7 @@ r=L.resolve({gender:'f',style:'hanbok',outfit:'#e0262e'});a.strictEqual(r.bottom
 r=L.resolve({gender:'m',style:'suit',top:'#e0262e',bottom:'#1a1a1a',acc:'sunglasses',hair:'m2'});a.deepStrictEqual([r.top,r.bottom,r.acc,r.hair],['#e0262e','#1a1a1a','sunglasses','m2']);
 r=L.resolve({gender:'f',hair:'m2',acc:'crown',top:'red'});a.strictEqual(r.hair,'');a.strictEqual(r.acc,'none');a.strictEqual(r.top,L.DEF.f.suit[0]);
 a.strictEqual(L.resolve({}).style,'suit');
+a.strictEqual(L.STYLES[0],'basic','<기본> first');r=L.resolve({gender:'f',style:'basic'});a.deepStrictEqual([r.top,r.bottom],['#f5f5f5','#2f7bff']);r=L.resolve({gender:'m',style:'basic',top:'#e0262e',bottom:'#1a1a1a'});a.deepStrictEqual([r.style,r.top,r.bottom],['basic','#e0262e','#1a1a1a']);
 // 서버 동기: 다른 사람에게 상의/하의/액세서리/헤어 전달
 const {io}=require('socket.io-client');const W=ms=>new Promise(x=>setTimeout(x,ms));const U='http://localhost:'+(process.env.PORT||8080);
 (async()=>{const w=io(U,{forceNew:true});const seen={};w.on('player',p=>seen[p.id]=p);const s=io(U,{forceNew:true});await W(400);
